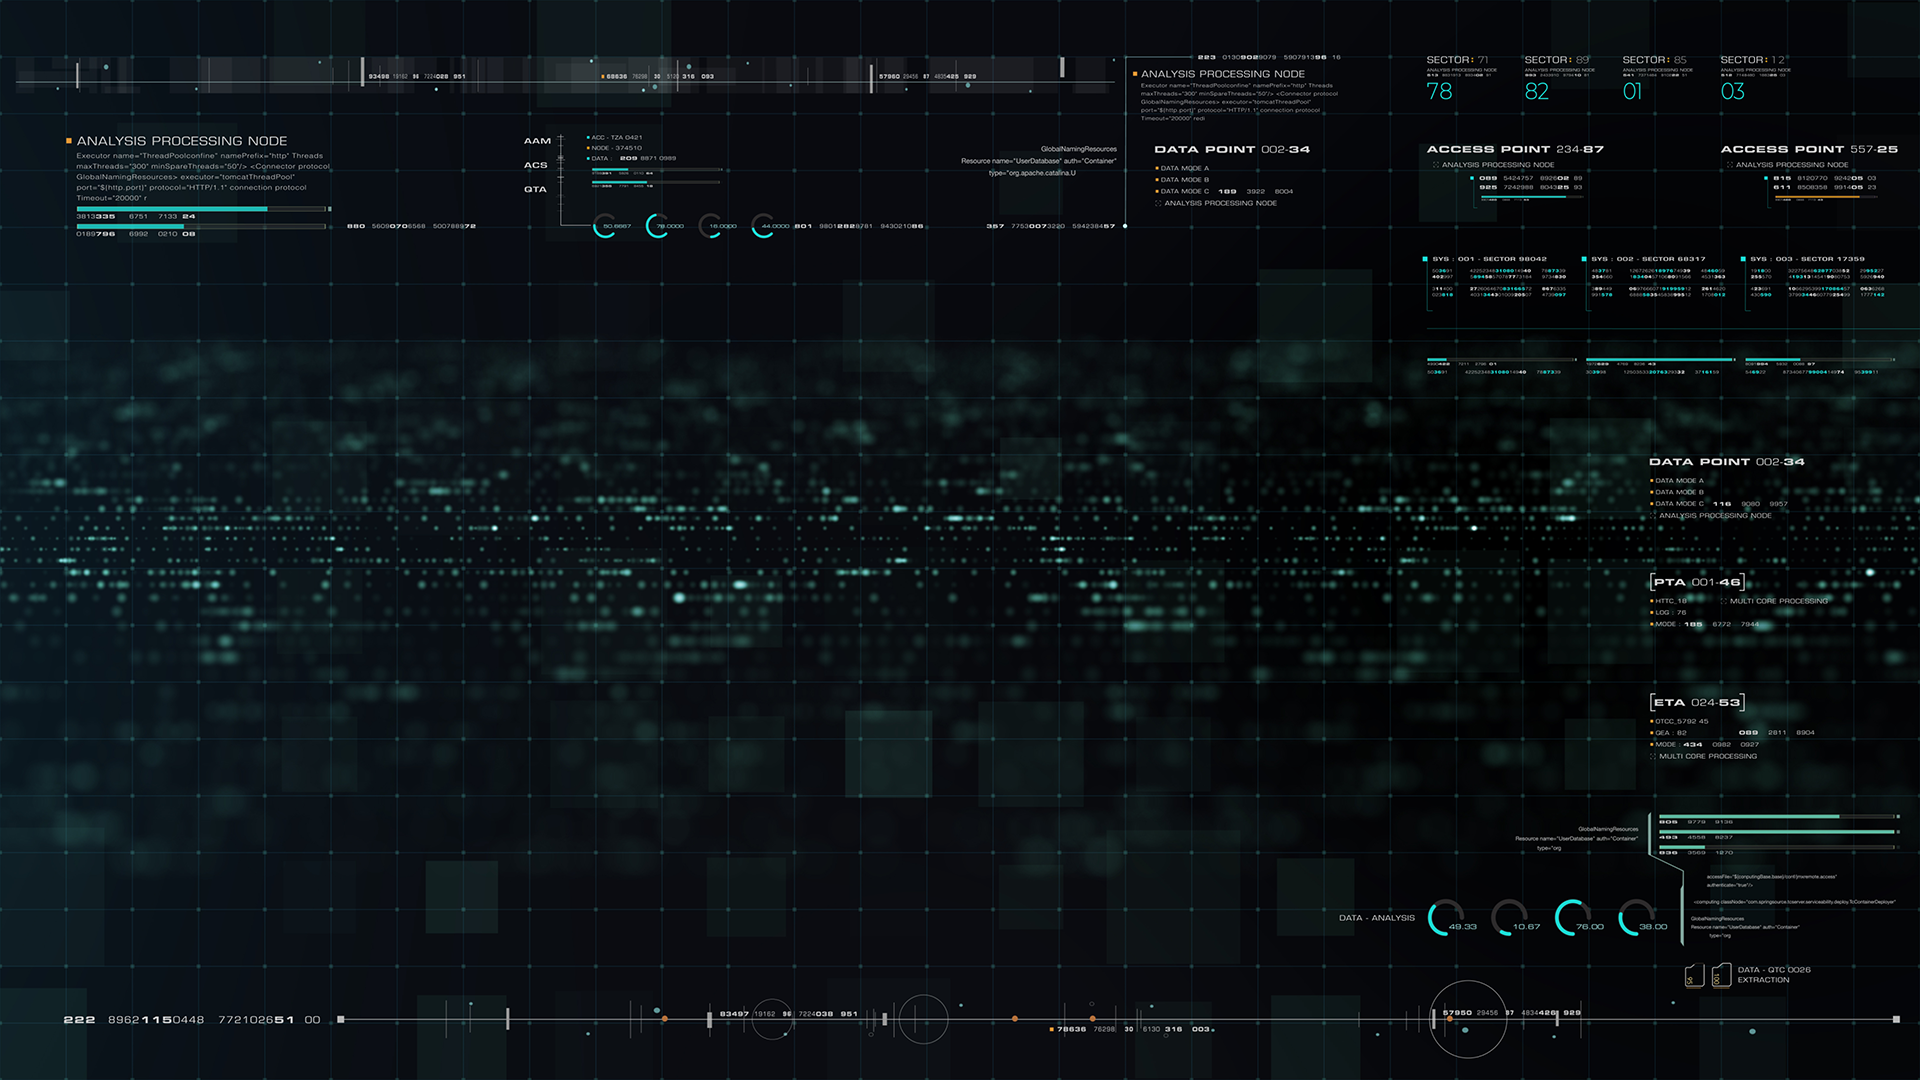
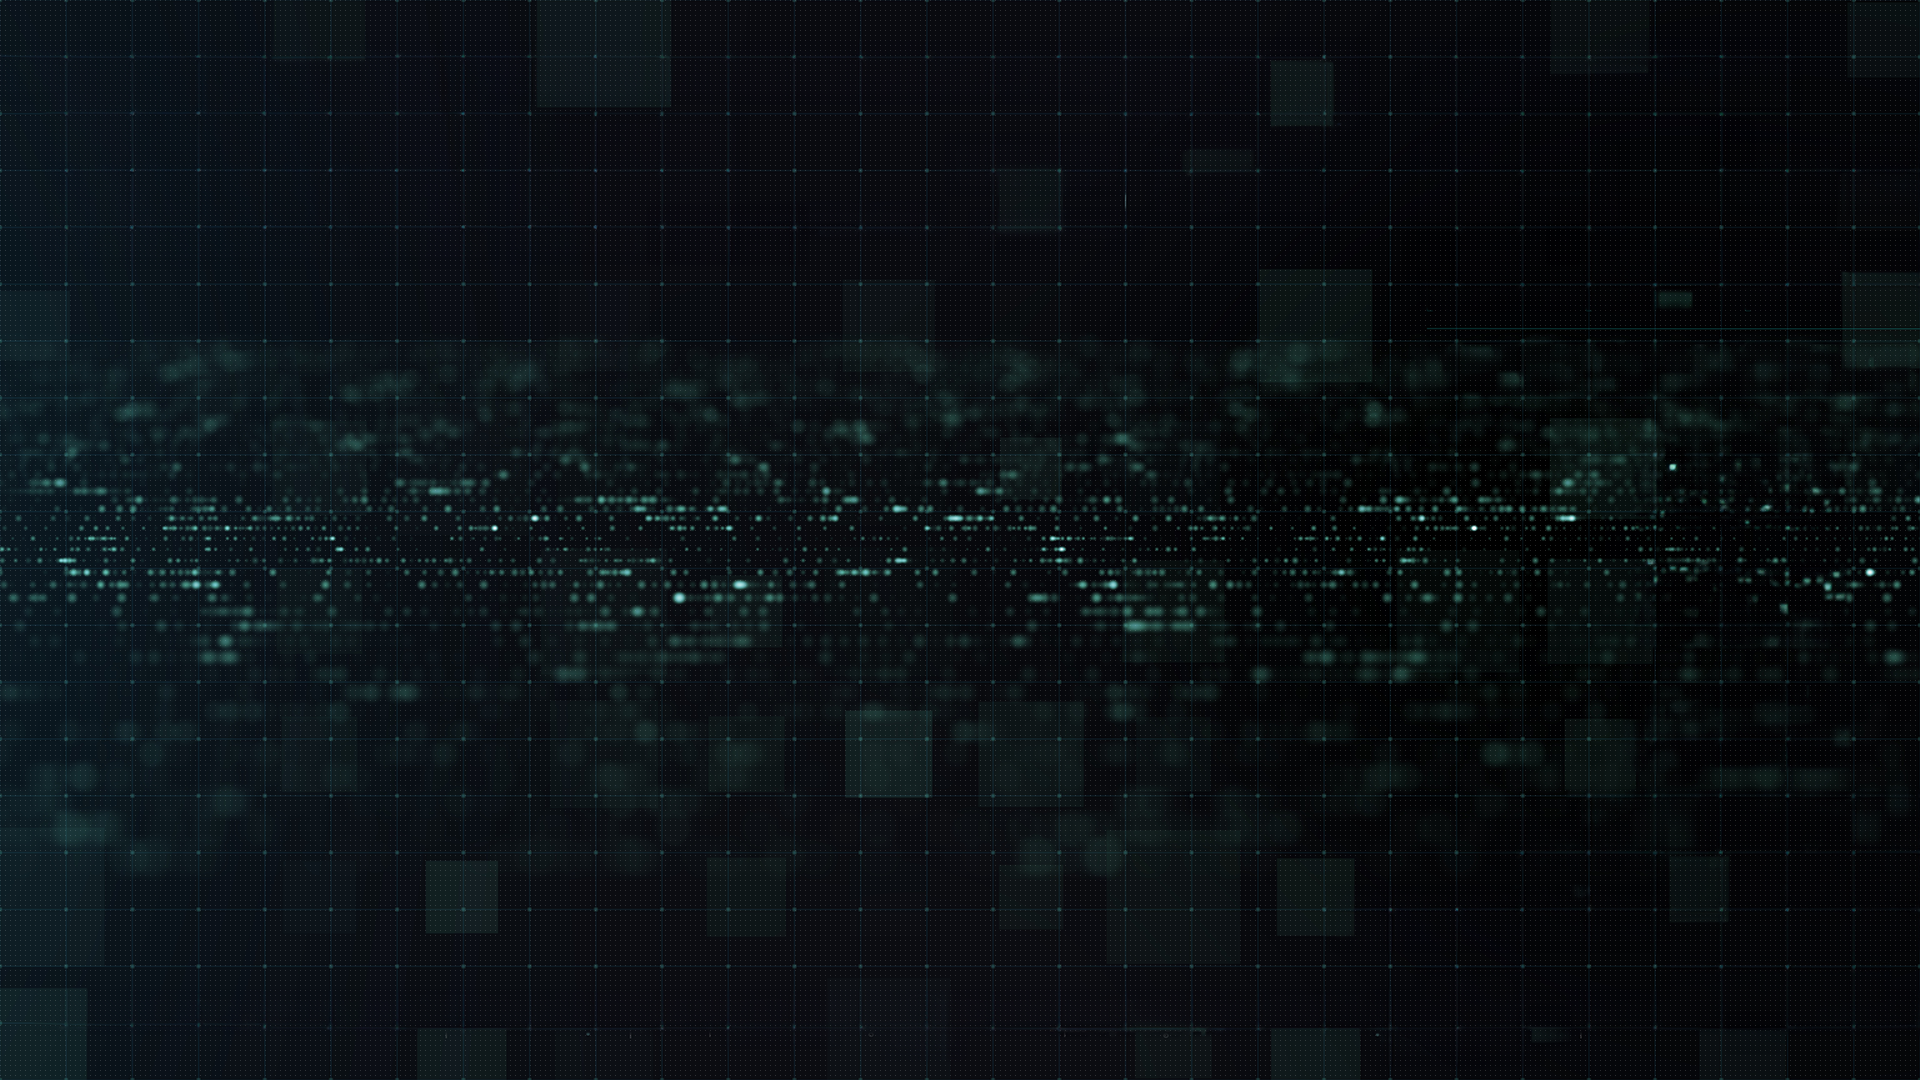
Changed background

diff --git a/main-web/openimager.css b/main-web/openimager.css
@@ -5,14 +5,27 @@
     box-sizing: border-box;
 }
 
+body::after {
+    content: "";
+    background: url('source/images/scifi2.png') repeat;
+    opacity: 0.25;
+    top: 0;
+    left: 0;
+    bottom: 0;
+    right: 0;
+    position: absolute;
+    z-index: -1;   
+}
+
 body {
[1 lines of base64/hex data omitted]
+    background: #020b1a;
     color: #58a4b0;
     display: flex;
     justify-content: center;
     align-items: center;
     min-height: 100vh;
     font-family: 'Orbitron', sans-serif;
+    position: relative;
 }
 
 .container, .level-container, .program-container {
